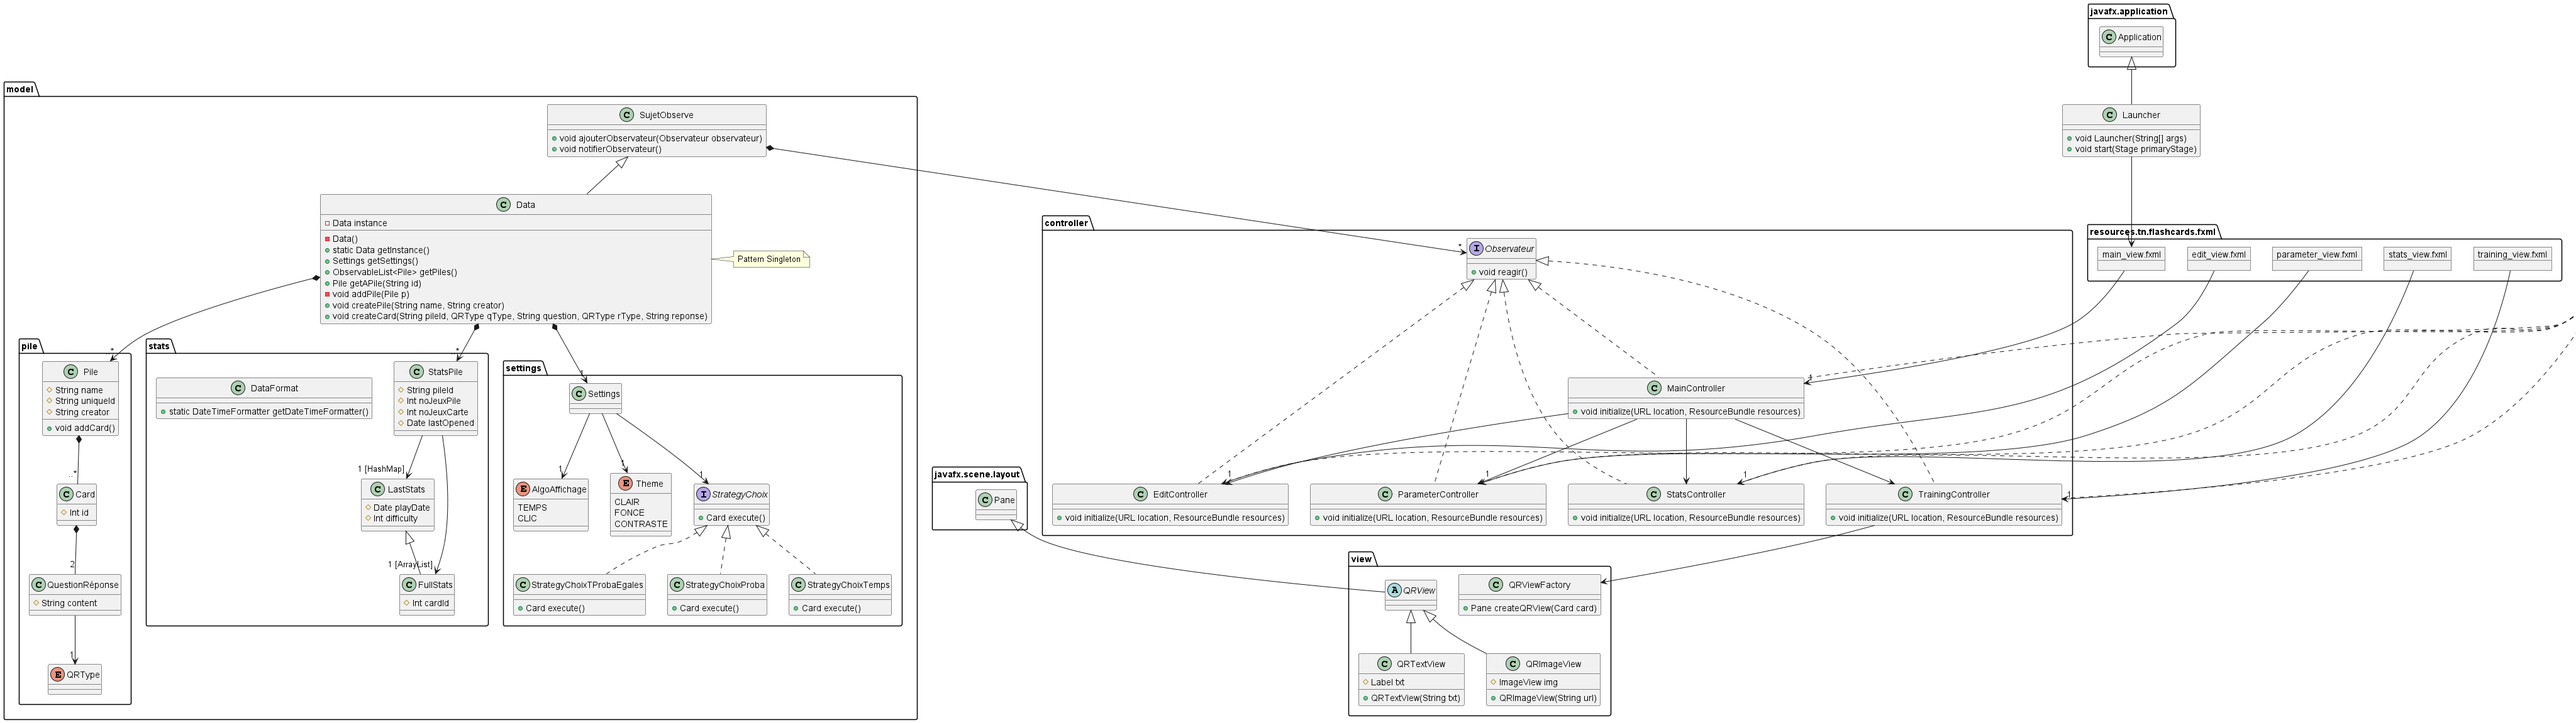
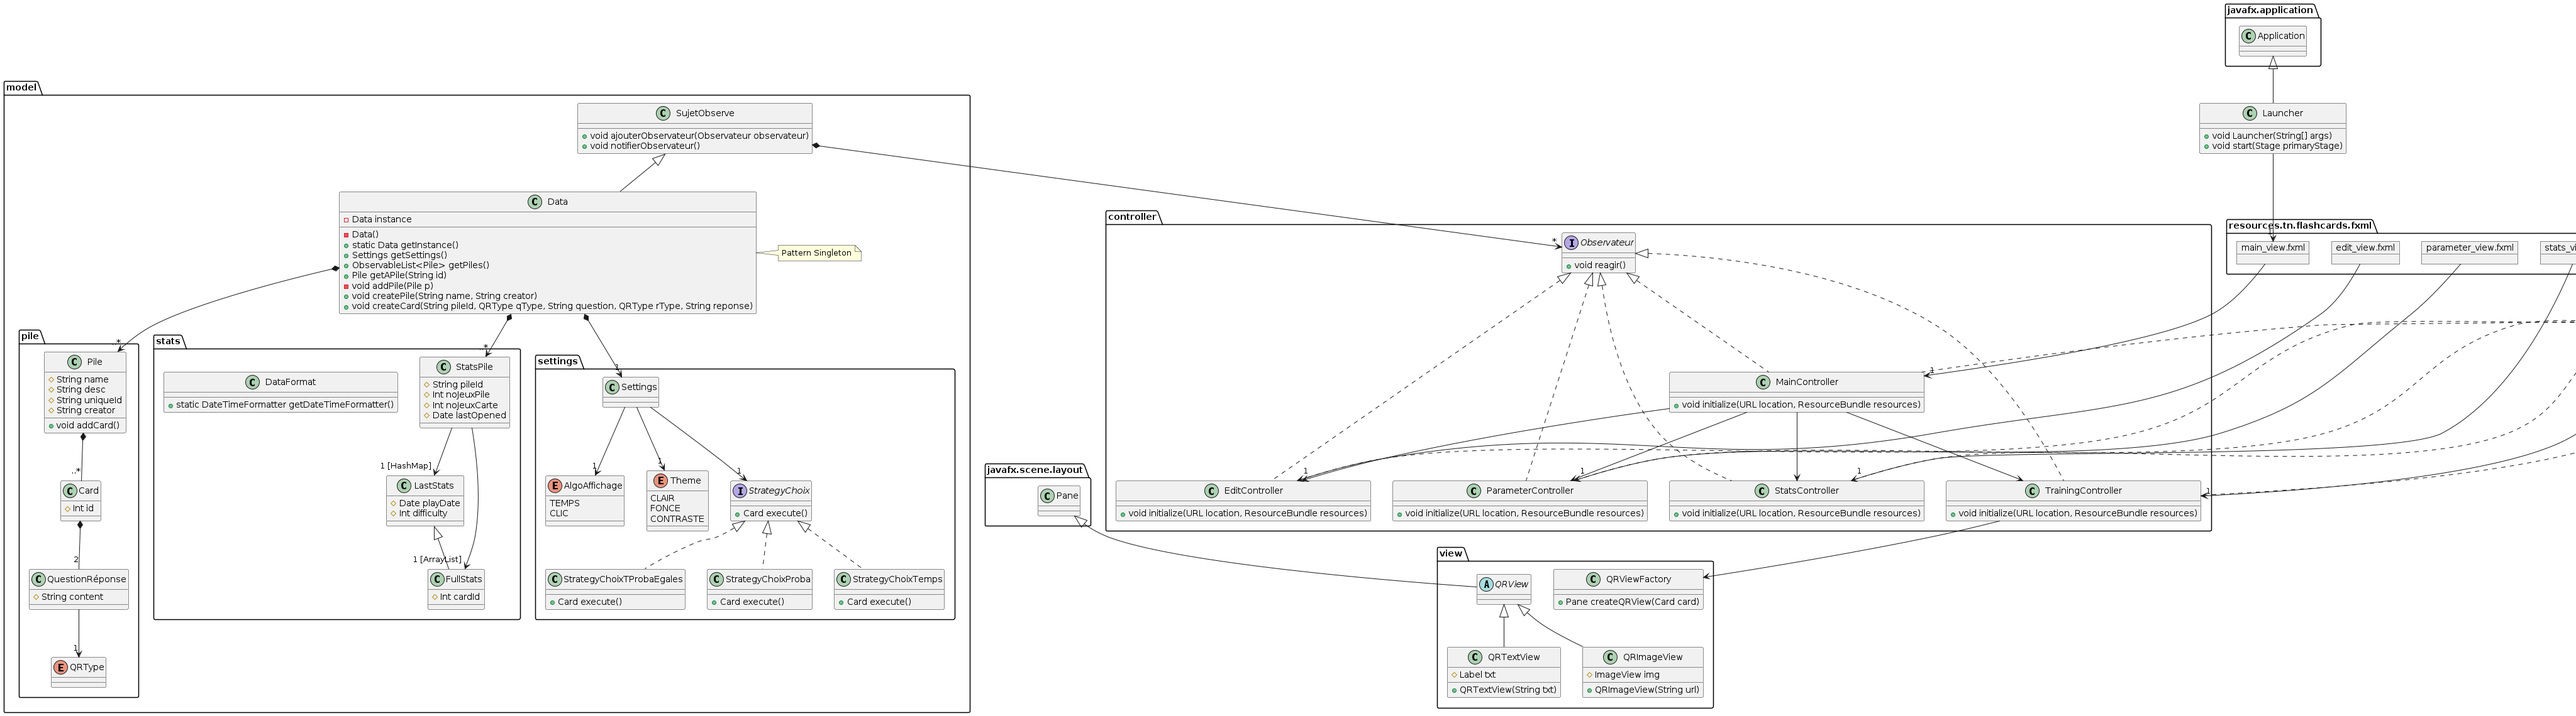
[ADD][MODEL] Descritpion d'une pile

diff --git a/flashcards/src/main/java/tn/flashcards/model/pile/Pile.java b/flashcards/src/main/java/tn/flashcards/model/pile/Pile.java
@@ -13,6 +13,7 @@ public class Pile {
 
     private static int ID = 0;
     protected String name;
+    protected String desc;
     protected String uniqueId;
     protected String creator;
     protected ArrayList<Card> cards;
@@ -21,6 +22,7 @@ public class Pile {
 
     public Pile() {
         this.name = "Nom de la pile";
+        this.desc = "Description par défaut";
         this.uniqueId = Integer.toString(ID);
         this.creator = "";
         this.cards = new ArrayList<>();
